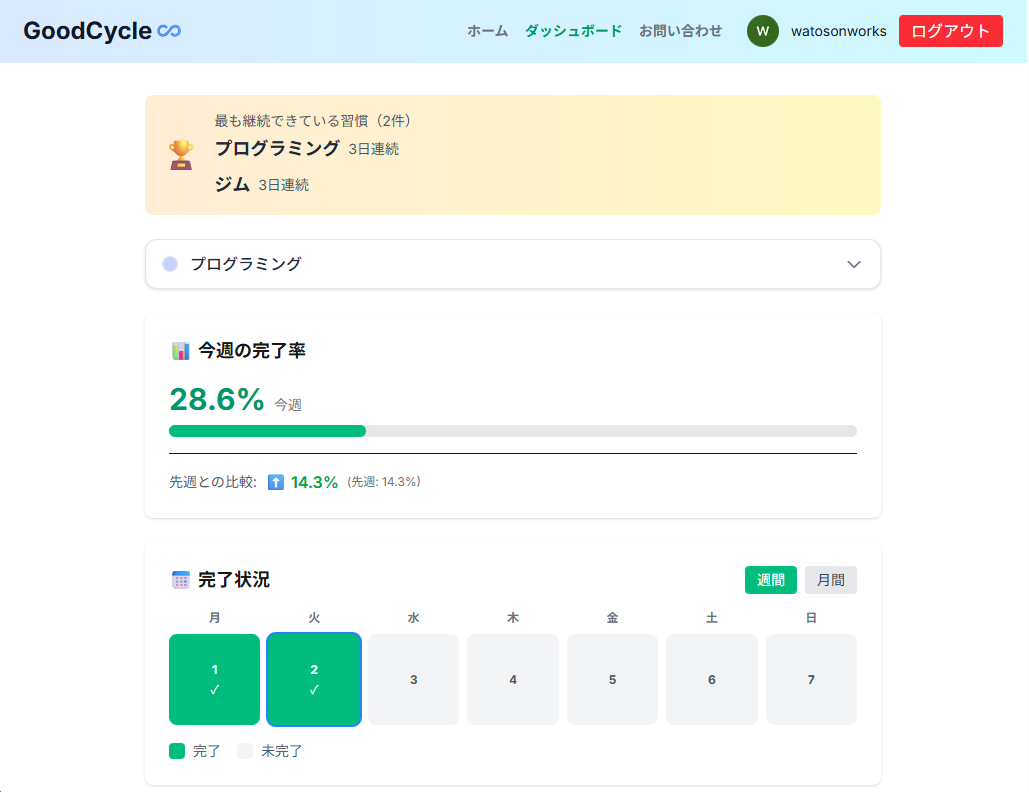
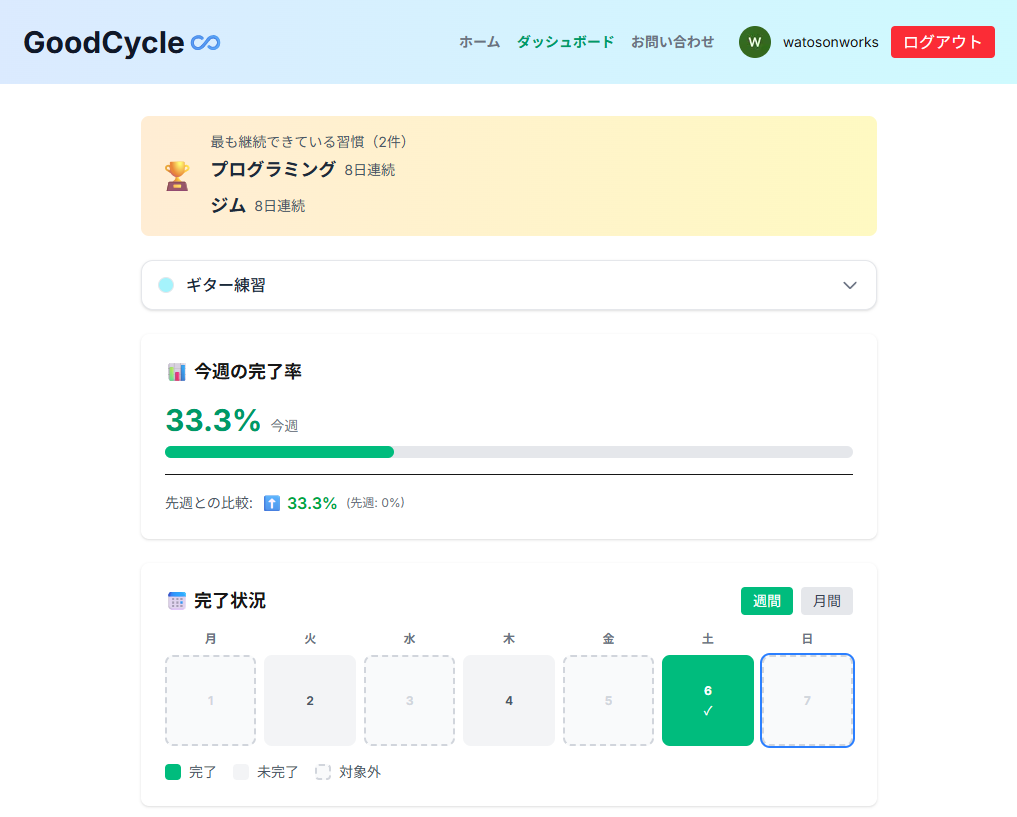
Displaying frequency types on cards

diff --git a/components/HabitCard.tsx b/components/HabitCard.tsx
@@ -22,6 +22,36 @@ export default function HabitCard({ habit }: Props) {
   const today = getTodayString();
   const isDue = isHabitDueOnDate(habit, today);
 
+  // 頻度タイプの表示テキストを生成
+  const getFrequencyText = () => {
+    switch (habit.frequencyType) {
+      case "daily":
+        return "毎日";
+      case "weekly":
+        if (habit.daysOfWeek && habit.daysOfWeek.length > 0) {
+          const dayLabels = ["日", "月", "火", "水", "木", "金", "土"];
+          const selectedDays = habit.daysOfWeek
+            .sort((a, b) => {
+              // 日曜日（0）を最後に表示するため、特別な処理
+              if (a === 0) return 1; // 日曜日は常に後ろ
+              if (b === 0) return -1; // 日曜日は常に後ろ
+              return a - b; // それ以外は通常の数値順
+            })
+            .map((day) => dayLabels[day])
+            .join("・");
+          return `毎週 ${selectedDays}`;
+        }
+        return "毎週";
+      case "interval":
+        if (habit.intervalDays) {
+          return `${habit.intervalDays}日間隔`;
+        }
+        return "間隔";
+      default:
+        return "毎日";
+    }
+  };
+
   return (
     <div
       className={`relative rounded-xl overflow-hidden ${
@@ -44,21 +74,26 @@ export default function HabitCard({ habit }: Props) {
               checked={habit.completed}
               onChange={() => toggleHabitStatus(habit.id)}
               className="w-5 h-5 accent-blue-500 cursor-pointer"
+              disabled={!isDue}
             />
             <div className="flex flex-col">
               <p
                 className={`text-lg font-medium ${
                   habit.completed
-                    ? "line-through text-gray-400"
+                    ? "line-through text-gray-500"
                     : !isDue
-                    ? "text-gray-500"
+                    ? "text-gray-300"
                     : "text-gray-800"
                 }`}
               >
                 {habit.title}
               </p>
-              <div className="flex items-center gap-2 mt-1">
+              <div className="flex items-center gap-2 mt-1 flex-wrap">
                 <p className="text-sm text-gray-500">{habit.category}</p>
+                {/* 頻度タイプの表示 */}
+                <span className="text-xs bg-blue-50 text-blue-600 px-2 py-0.5 rounded-full font-medium">
+                  {getFrequencyText()}
+                </span>
                 {/* ストリークの表示 */}
                 {isLoggedIn &&
                   habit.currentStreak !== undefined &&

diff --git a/lib/store.ts b/lib/store.ts
@@ -126,10 +126,6 @@ export const useStore = create<Store>()(
             if (!habit) return;
 
             const today = getTodayString();
-            if (!isHabitDueOnDate(habit, today)) {
-              alert("この習慣は今日の実施日ではありません。");
-              return;
-            }
 
             const newCompleted = !habit.completed;
             const completedDates =  habit.completedDates || [];

diff --git a/components/EditHabitModal.tsx b/components/EditHabitModal.tsx
@@ -408,7 +408,7 @@ export default function EditHabitModal({ habit, isOpen, onClose }: Props) {
 
           {/* 頻度タイプがintervalの場合のみ表示 */}
           {frequencyType === "interval" && (
-            <div>
+            <div className="space-y-2">
               <label className="block text-sm font-medium text-gray-700 mb-2">
                 周期(日)
               </label>

diff --git a/components/AddHabitModal.tsx b/components/AddHabitModal.tsx
@@ -414,7 +414,7 @@ export default function AddHabitModal({ isOpen, onClose }: Props) {
 
           {/* 頻度タイプがintervalの場合のみ表示 */}
           {frequencyType === "interval" && (
-            <div>
+            <div className="space-y-2">
               <label className="block text-sm font-medium text-gray-700 mb-2">
                 周期(日)
               </label>

diff --git a/lib/habitColors.ts b/lib/habitColors.ts
@@ -1,5 +1,5 @@
 export const HABIT_COLOR_OPTIONS = [
-  "#ffffff",   // 白
+  "#f3f4f6",   // グレー100
   "#fef3c7",   // アンバー100
   "#fde68a",   // アンバー200
   "#fed7aa",   // オレンジ200
